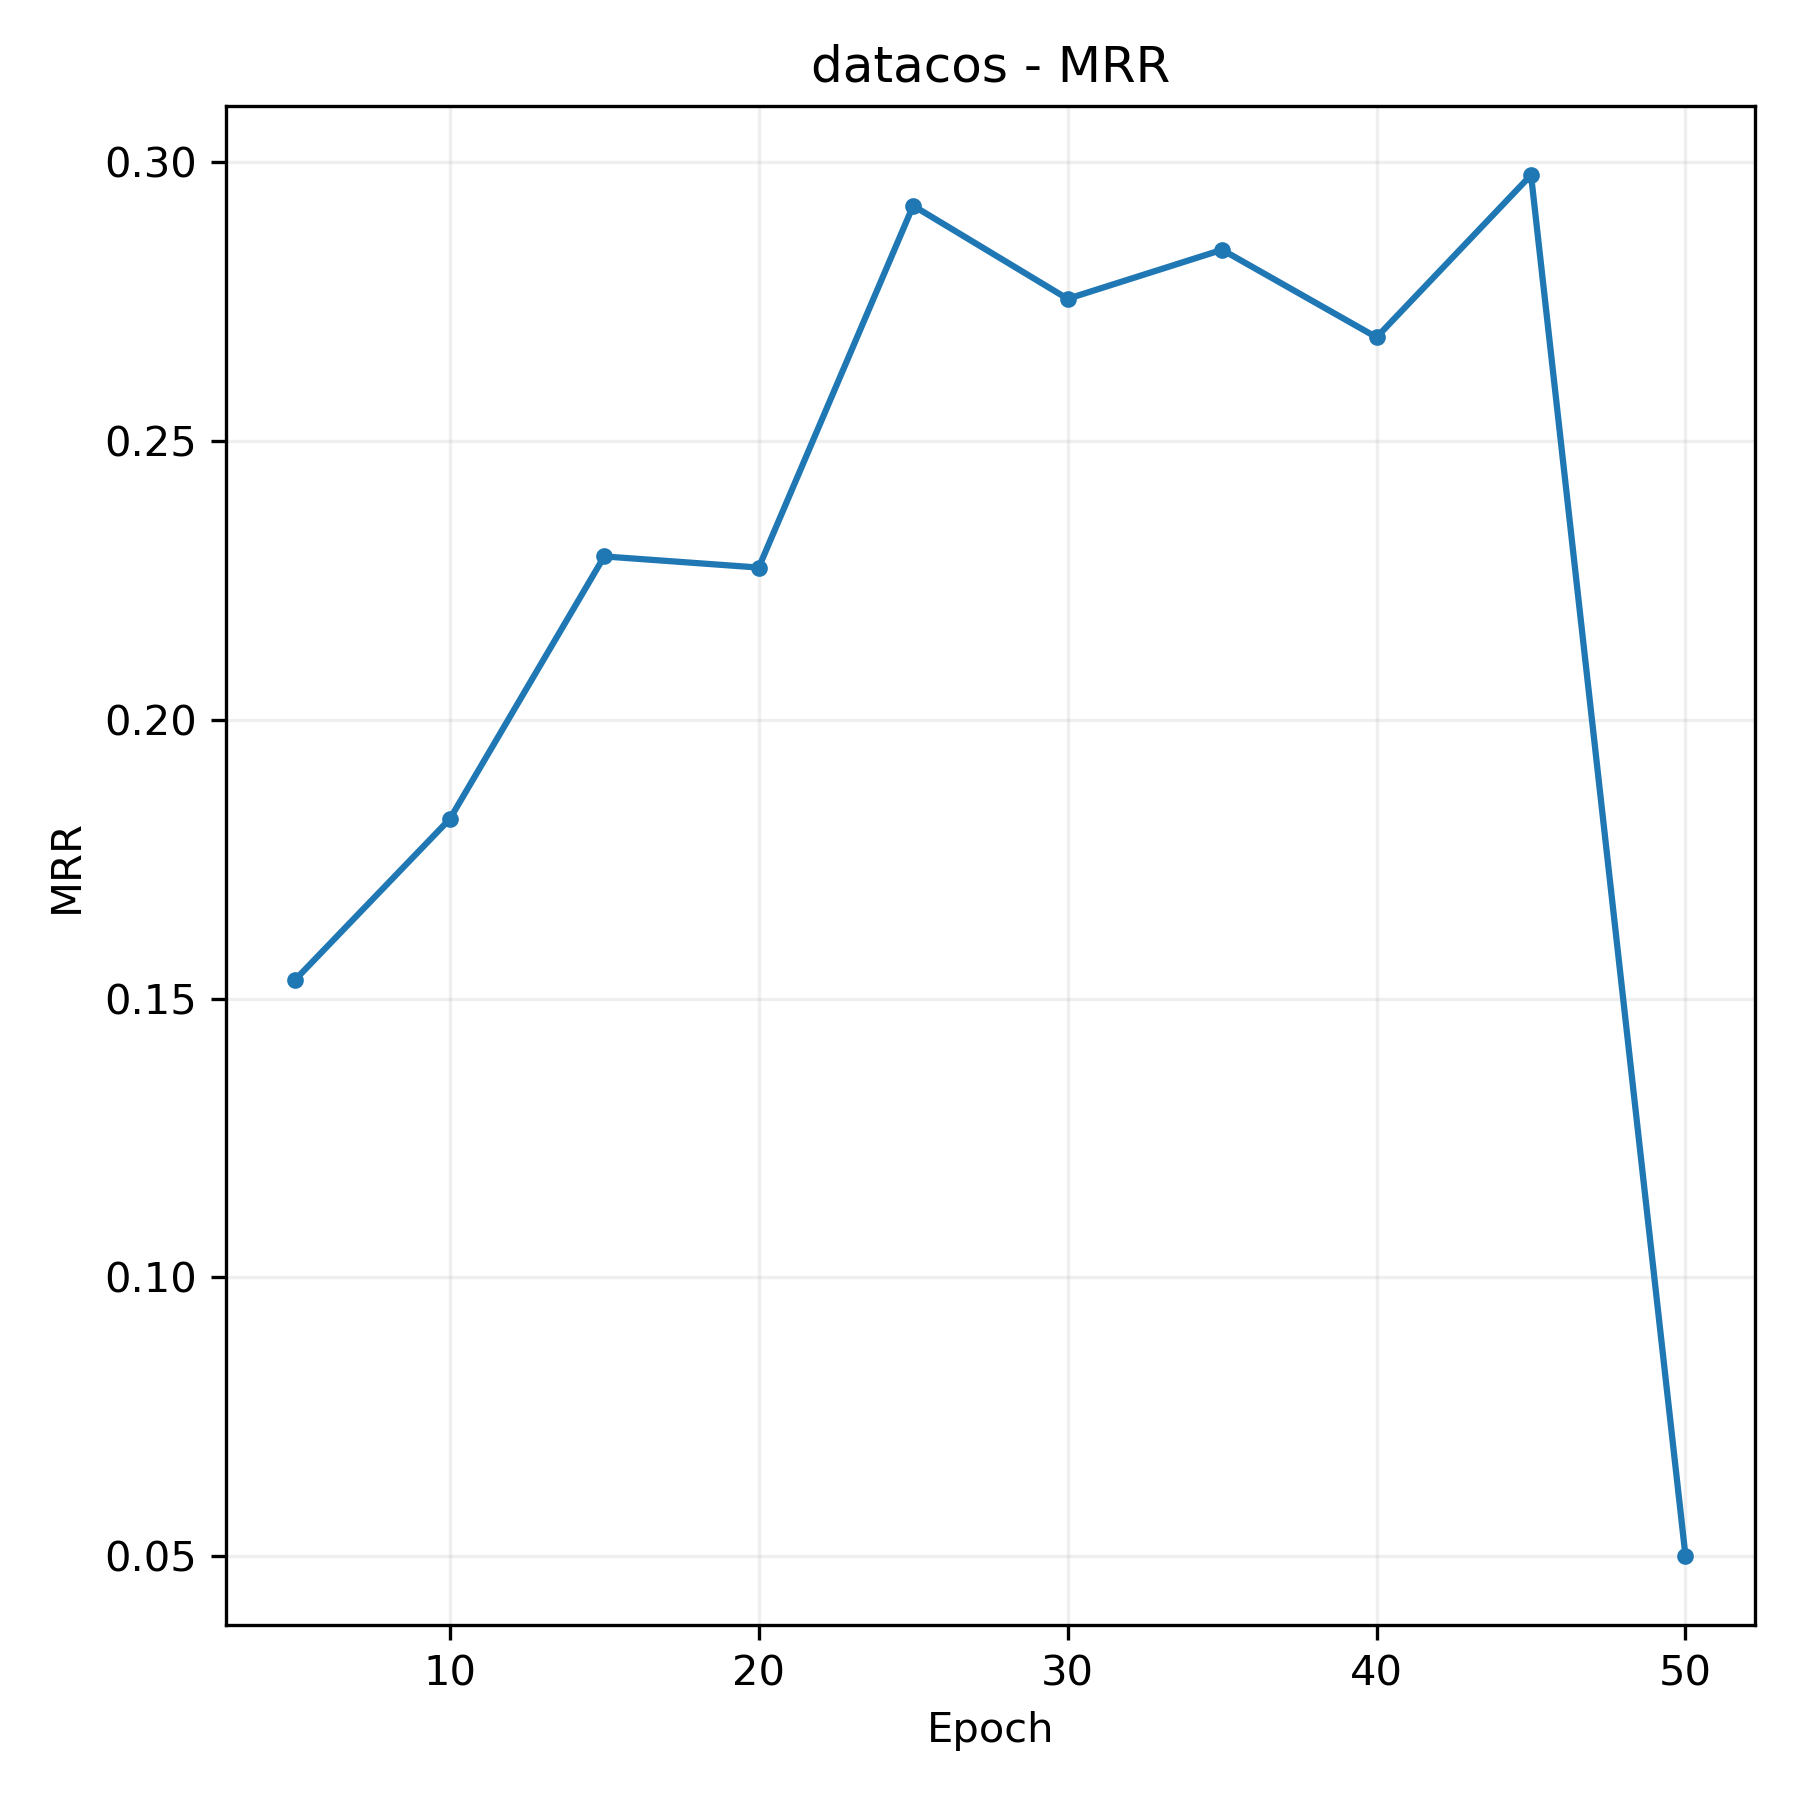
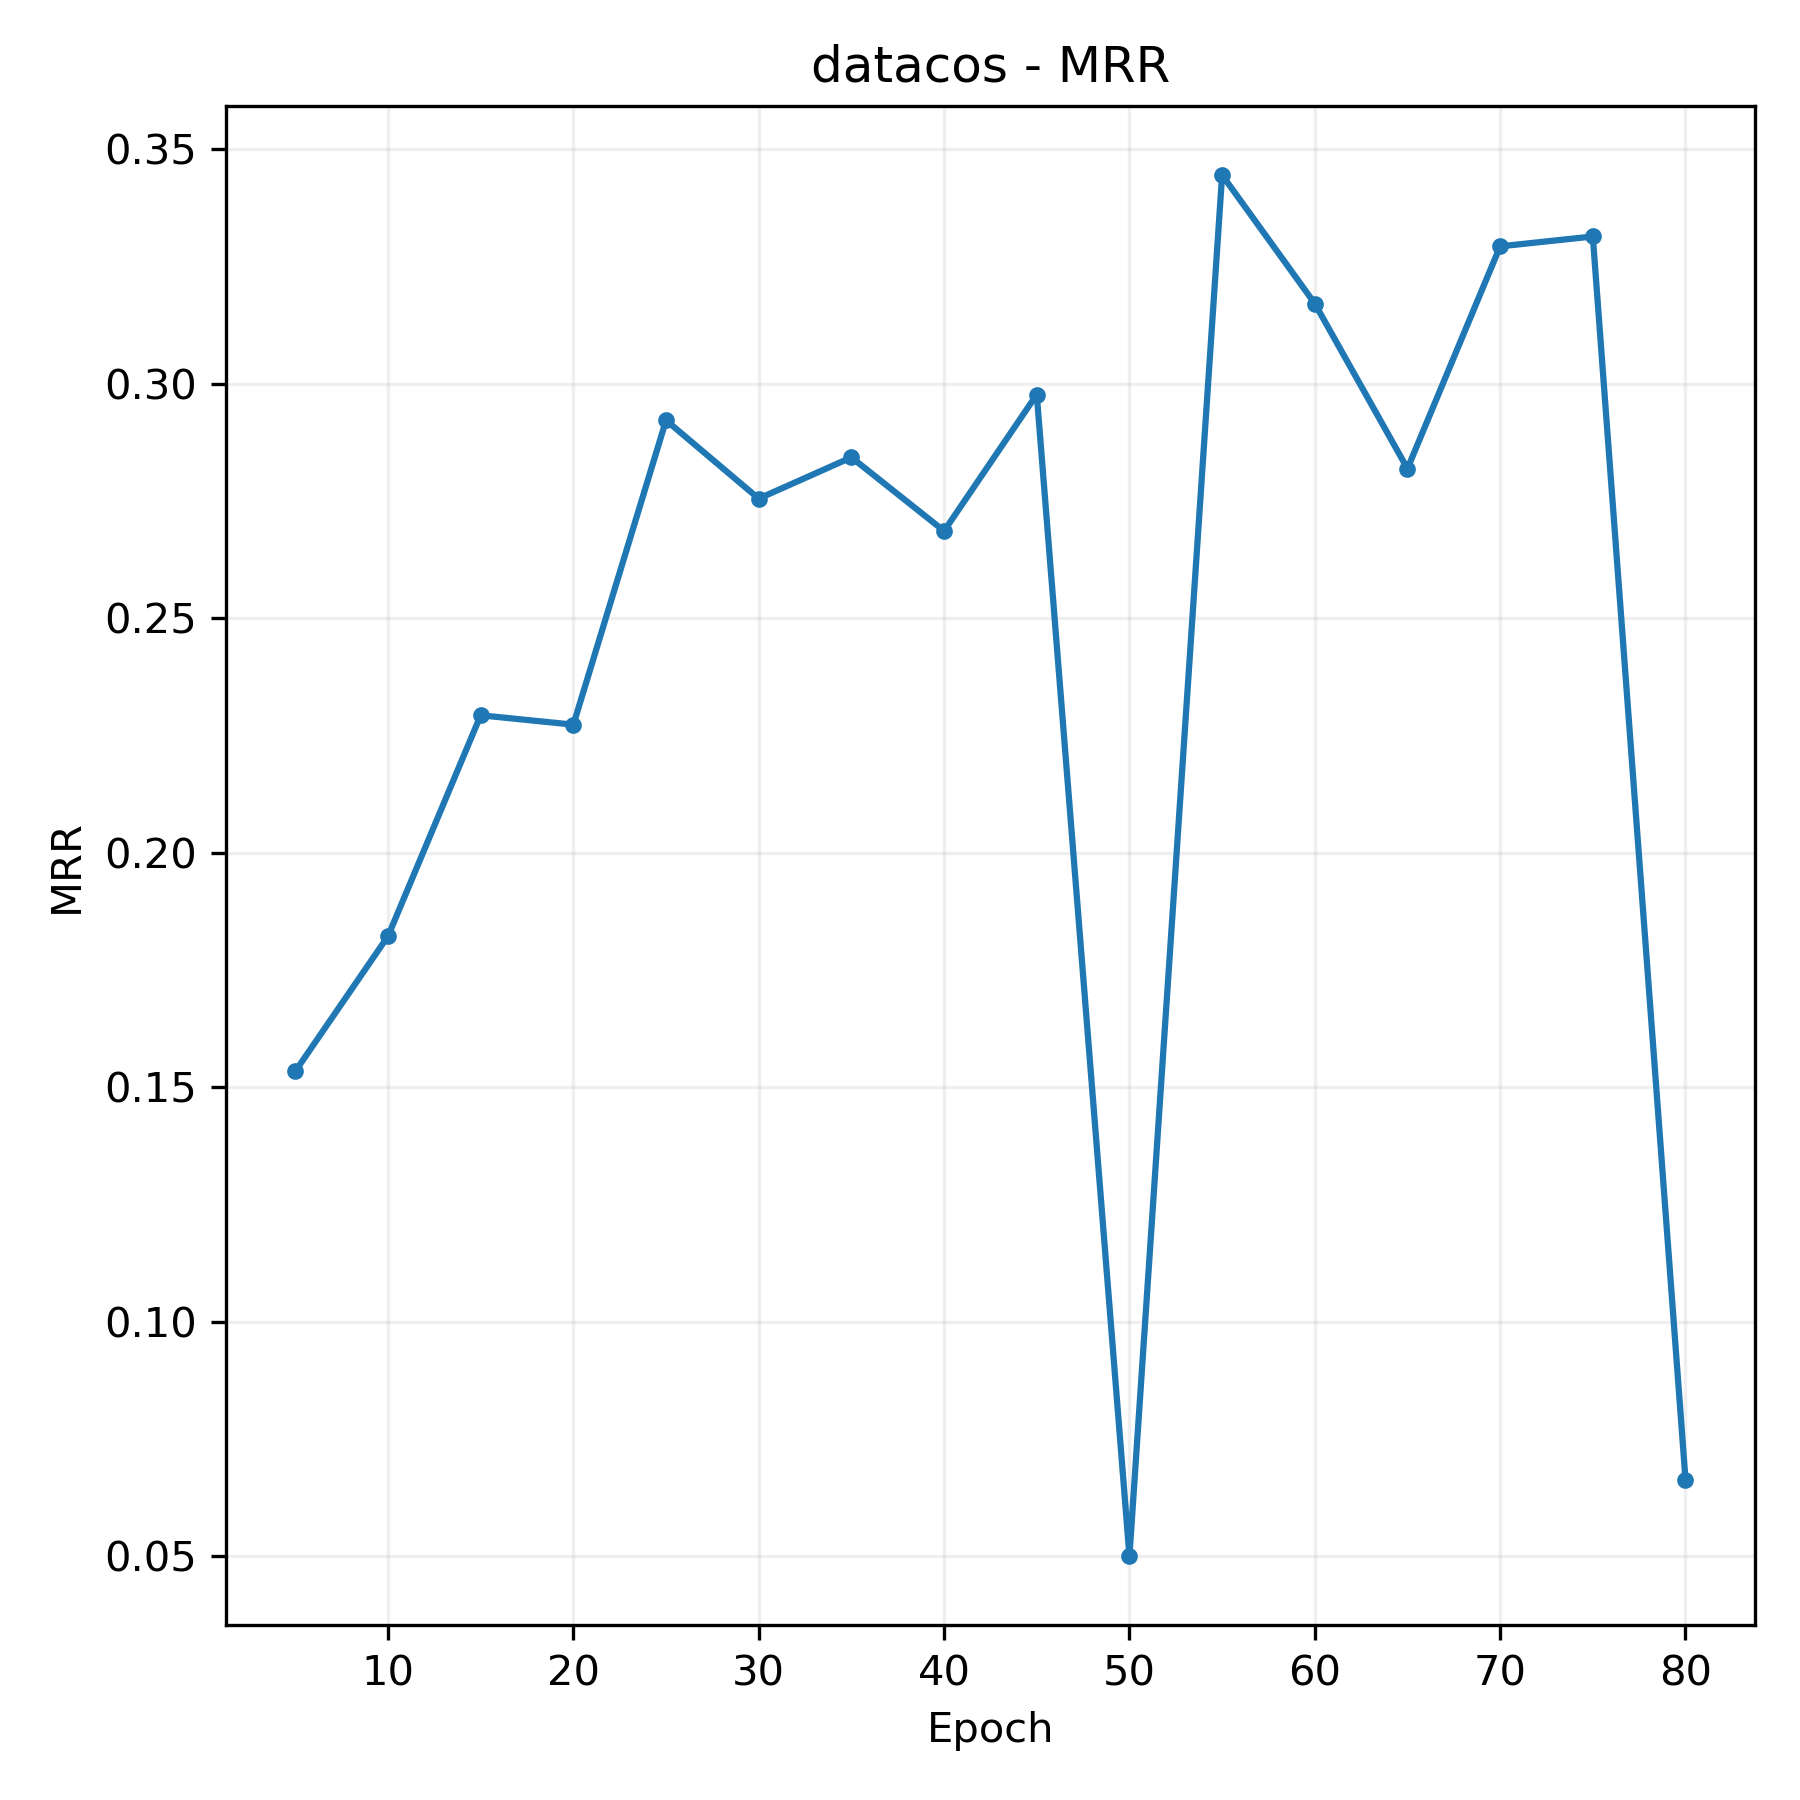
modify var

diff --git a/2-5_train_moco_attn.py b/2-5_train_moco_attn.py
@@ -13,7 +13,7 @@ from data_augmentation import cyclic_subset
 parser = argparse.ArgumentParser()
 parser.add_argument("--data_dir", type=str, default="da_tacos", help="data directory name")
 parser.add_argument("--csv_pref", type=str, default="pair")
-parser.add_argument("--exp_name", type=str, default="moco_attn_v7", help="name of training experiment")
+parser.add_argument("--exp_name", type=str, default="moco_attn_v9", help="name of training experiment")
 parser.add_argument("--csv_dir", type=str, default="da-tacos_metadata", help="directory of metadata")
 # parser.add_argument("--split", type=str, default="train")
 parser.add_argument("--cache_dir", type=str, default="hpcp_cache", help="cache directory name")
@@ -42,9 +42,9 @@ datacos_val_loader = DataLoader(datacos_val_dataset, batch_size=256, shuffle=Fal
 device = torch.device("cuda" if torch.cuda.is_available() else "cpu")
 
 # model
-tokenizer = a_vittokenizer.RawTokenizer()
+tokenizer = a_vittokenizer.RawTokenizer(d_model=64, patch_h=23, patch_w=25)
 selfattn = b_selfattention.SelfAttentionEncoder(nhead=8, d_model=64, num_layers=2, dim_feedforward=256, dropout=0.1)
-encoder = d_projector.HPCPSelfAttentionEncoder(tokenizer=tokenizer, self_attention=selfattn, nhead=8, d_model=64)
+encoder = d_projector.HPCPSelfAttentionEncoder(tokenizer=tokenizer, self_attention=selfattn, num_tokens=175, nhead=8, d_model=64)
 model = d_projector.HPCPMoCo(encoder, proj_dim=128, proj_hidden=256, momentum=0.99, temperature=0.2).to(device=device)
 
 optimizer = torch.optim.AdamW(
@@ -79,6 +79,10 @@ if checkpoint_path.is_file():
 else:
     print("No checkpoint found. Starting from epoch 1.")
 
+sample = datacos_train_dataset[0]
+for k, v in sample.items():
+    if hasattr(v, "shape"):
+        print(k, v.shape)
 
 for epoch in range(start_epoch, num_epochs + 1):
     # cyclic_train_dataset = cyclic_subset(datacos_train_dataset, epoch=epoch, ratio=0.2)

diff --git a/3-5_eval_moco_attn.py b/3-5_eval_moco_attn.py
@@ -11,7 +11,7 @@ from checkpoint import load_checkpoint
 
 parser = argparse.ArgumentParser()
 parser.add_argument("--csv_pref", type=str, default="pair")
-parser.add_argument("--exp_name", type=str, default="moco_attn_v7", help="name of training experiment")
+parser.add_argument("--exp_name", type=str, default="moco_attn_v9", help="name of training experiment")
 parser.add_argument("--cache_dir", type=str, default="cache", help="cache directory name")
 parser.add_argument("--rep", type=str, default="hpcp", help="representation of the input")
 args = parser.parse_args()
@@ -59,7 +59,7 @@ device = torch.device("cuda" if torch.cuda.is_available() else "cpu")
 # model
 tokenizer = a_vittokenizer.RawTokenizer()
 selfattn = b_selfattention.SelfAttentionEncoder(nhead=8, d_model=64, num_layers=2, dim_feedforward=256, dropout=0.1)
-encoder = d_projector.HPCPSelfAttentionEncoder(tokenizer=tokenizer, self_attention=selfattn, nhead=8, d_model=64)
+encoder = d_projector.HPCPSelfAttentionEncoder(tokenizer=tokenizer, self_attention=selfattn, num_tokens=175, nhead=8, d_model=64)
 model = d_projector.HPCPMoCo(encoder, proj_dim=128, proj_hidden=256, momentum=0.99, temperature=0.2).to(device=device)
 
 optimizer = torch.optim.AdamW(
@@ -74,7 +74,7 @@ best_loss = float("inf")
 
 # checkpoint_path = checkpoint_dir / "last.pt"
 # checkpoint_path = checkpoint_dir / "best.pt"
-checkpoint_path = checkpoint_dir / "model_epoch_050.pt"
+checkpoint_path = checkpoint_dir / "model_epoch_005.pt"
 
 
 if checkpoint_path.is_file():
@@ -88,6 +88,11 @@ if checkpoint_path.is_file():
         best_loss = loaded_loss
 else:
     print("No checkpoint found. Starting from epoch 1.")
+
+shs_sample = shs_test_dataset[0]
+for k, v in shs_sample.items():
+    if hasattr(v, "shape"):
+        print(k, v.shape)
 
 # Evaluation on shs-100K test dataset pair
 shs_test_metrics = evaluate_vit_moco_pn(

diff --git a/2-3_train_hpcp_attn.py b/2-3_train_hpcp_attn.py
@@ -14,7 +14,7 @@ from data_augmentation import cyclic_subset
 parser = argparse.ArgumentParser()
 parser.add_argument("--data_dir", type=str, default="da_tacos", help="data directory name")
 parser.add_argument("--csv_pref", type=str, default="pair")
-parser.add_argument("--exp_name", type=str, default="hpcp_attn_v6", help="name of training experiment")
+parser.add_argument("--exp_name", type=str, default="hpcp_attn_v10", help="name of training experiment")
 parser.add_argument("--csv_dir", type=str, default="da-tacos_metadata", help="directory of metadata")
 # parser.add_argument("--split", type=str, default="train")
 parser.add_argument("--cache_dir", type=str, default="hpcp_cache", help="cache directory name")
@@ -43,9 +43,9 @@ datacos_val_loader = DataLoader(datacos_val_dataset, batch_size=256, shuffle=Fal
 device = torch.device("cuda" if torch.cuda.is_available() else "cpu")
 
 # model
-tokenizer = a_vittokenizer.RawTokenizer(d_model=64, patch_h=12, patch_w=25)
+tokenizer = a_vittokenizer.RawTokenizer(d_model=64, patch_h=23, patch_w=25)
 selfattn = b_selfattention.SelfAttentionEncoder(nhead=4, d_model=64, num_layers=2, dim_feedforward=256, dropout=0.2)
-model = c_self_sim_model.HPCPSelfAttentionModel(tokenizer=tokenizer, self_attention=selfattn, nhead=4, d_model=64).to(device=device)
+model = c_self_sim_model.HPCPSelfAttentionModel(tokenizer=tokenizer, self_attention=selfattn, nhead=4, num_token=175, d_model=64).to(device=device)
 
 
 optimizer = torch.optim.AdamW(
@@ -57,7 +57,7 @@ optimizer = torch.optim.AdamW(
 )
 
 # training
-num_epochs = 1000
+num_epochs = 300
 validate_every = 1
 checkpoint_every = 5
 

diff --git a/models/a_vittokenizer.py b/models/a_vittokenizer.py
@@ -111,7 +111,7 @@ class HPCPViTTokenizer(nn.Module):
     
 
 class RawTokenizer(nn.Module):
-    def __init__(self, d_model=64, patch_h=12, patch_w=25):
+    def __init__(self, d_model=64, patch_h=23, patch_w=25):
         super().__init__()
 
         self.patch_h = patch_h
@@ -121,18 +121,18 @@ class RawTokenizer(nn.Module):
         self.proj = nn.Linear(patch_dim, d_model)
 
     def forward(self, x):
-        B, C, H, W = x.shape # x: [B, 1, 96, 4375]
+        B, C, H, W = x.shape # x: [B, 1, 23, 4375]
 
         usable_h = (H // self.patch_h) * self.patch_h # patch_h로 나눠지는 길이
         usable_w = (W // self.patch_w) * self.patch_w # patch_w로 나눠지는 길이
 
-        x = x[:, :, :usable_h, :usable_w] # x: [B, 1, 96, 4375]
+        x = x[:, :, :usable_h, :usable_w] # x: [B, 1, 23, 4375]
 
         x = x.unfold(2, self.patch_h, self.patch_h)
-        x = x.unfold(3, self.patch_w, self.patch_w) # [B, 1, 8, 12, 175, 25]
+        x = x.unfold(3, self.patch_w, self.patch_w) # [B, 1, 1, 23, 175, 25]
 
-        x = x.permute(0, 2, 3, 1, 4, 5) # [B, 8, 175, 1, 12, 25] = [B, H_patch, W_patch, C, patch_h, patch_w]
-        x = x.reshape(B, -1, C * self.patch_h * self.patch_w) # [B, 8*175, 300]
+        x = x.permute(0, 2, 3, 1, 4, 5) # [B, 1, 175, 1, 23, 25] = [B, H_patch, W_patch, C, patch_h, patch_w]
+        x = x.reshape(B, -1, C * self.patch_h * self.patch_w) # [B, 1*175, 575]
         x = self.proj(x) # [B, N, d_model]
 
         return x

diff --git a/3-3_eval_hpcp_attn.py b/3-3_eval_hpcp_attn.py
@@ -12,7 +12,7 @@ from checkpoint import load_checkpoint
 
 parser = argparse.ArgumentParser()
 parser.add_argument("--csv_pref", type=str, default="pair")
-parser.add_argument("--exp_name", type=str, default="hpcp_attn_v7", help="name of training experiment")
+parser.add_argument("--exp_name", type=str, default="hpcp_attn_v10", help="name of training experiment")
 parser.add_argument("--cache_dir", type=str, default="cache", help="cache directory name")
 parser.add_argument("--rep", type=str, default="hpcp", help="representation of the input")
 args = parser.parse_args()
@@ -58,9 +58,9 @@ datacos_loader = DataLoader(datacos_dataset, batch_size=128, shuffle=False, num_
 device = torch.device("cuda" if torch.cuda.is_available() else "cpu")
 
 # model
-tokenizer = a_vittokenizer.RawTokenizer(d_model=64, patch_h=12, patch_w=25)
+tokenizer = a_vittokenizer.RawTokenizer(d_model=64, patch_h=23, patch_w=25)
 selfattn = b_selfattention.SelfAttentionEncoder(nhead=4, d_model=64, num_layers=2, dim_feedforward=256, dropout=0.1)
-model = c_self_sim_model.HPCPSelfAttentionModel(tokenizer=tokenizer, self_attention=selfattn, nhead=4, d_model=64).to(device=device)
+model = c_self_sim_model.HPCPSelfAttentionModel(tokenizer=tokenizer, self_attention=selfattn, nhead=4, num_token=175, d_model=64).to(device=device)
 
 optimizer = torch.optim.AdamW(
     model.parameters(),

diff --git a/models/c_self_sim_model.py b/models/c_self_sim_model.py
@@ -282,11 +282,13 @@ class LGSelfAttentionModel(nn.Module): # used for HPCP
     
 
 class HPCPSelfAttentionModel(nn.Module): # used for HPCP
-    def __init__(self, tokenizer, self_attention, nhead, d_model=64):
+    def __init__(self, tokenizer, self_attention, nhead, num_token=175, d_model=64):
         super().__init__()
         self.dim = d_model
         self.head = nhead
+        self.num_token = num_token
         self.tokenizer = tokenizer
+        self.pos_embed = nn.Parameter(torch.zeros(1, self.num_token, self.dim))
         self.self_attention = self_attention
 
         self.pair_projection = PairProjection(d_model=self.dim, pair_dim=self.dim)
@@ -296,6 +298,7 @@ class HPCPSelfAttentionModel(nn.Module): # used for HPCP
     def encode_tokens(self, x):
         B = x.shape[0]
         x = self.tokenizer(x)
+        x = x + self.pos_embed[:, :x.shape[1], :]
         x = self.self_attention(x) # [B, N, D]
 
         # x = x.reshape(B, self.head, x.shape[1], self.dim) # [B*H, N, D]
@@ -322,6 +325,8 @@ class HPCPSelfAttentionModel(nn.Module): # used for HPCP
         return x
 
     def forward(self, src, tgt):
+        
+
         src_token = self.encode_tokens(src)
         tgt_token = self.encode_tokens(tgt)
 

diff --git a/dataset/pndatacosdataset.py b/dataset/pndatacosdataset.py
@@ -175,6 +175,7 @@ class PNDATACOSDataset(Dataset):
         # augmentation during training
         if self.split == "train":
             fs_input = da.shift_pitch_hpcp(fs_input)
+            fs_input = da.mirror_pitch_axis(fs_input)
             fs_input = da.shift_mask_hpcp_time(fs_input)
             fs_input = da.partial_gap_hpcp(fs_input)
             # fs_input = da.splice_same_song_hpcp(fs_input, p=0.2, seg_len=500)
@@ -184,7 +185,10 @@ class PNDATACOSDataset(Dataset):
 
             # fn_input = da.augment_hpcp(fn_input)
             # fn_input = da.splice_same_song_hpcp(fn_input, p=0.2, seg_len=500)
-
+        else:
+            fs_input = da.mirror_pitch_axis(fs_input)
+        fp_input = da.mirror_pitch_axis(fp_input)
+        fn_input = da.mirror_pitch_axis(fn_input)
         tfs_input = torch.as_tensor(fs_input, dtype=torch.float32).unsqueeze(0)
         tfp_input = torch.as_tensor(fp_input, dtype=torch.float32).unsqueeze(0)
         tfn_input = torch.as_tensor(fn_input, dtype=torch.float32).unsqueeze(0)

diff --git a/models/d_projector.py b/models/d_projector.py
@@ -128,17 +128,19 @@ class PredictionMLP(nn.Module):
 
 
 class HPCPSelfAttentionEncoder(nn.Module):
-    def __init__(self, tokenizer, self_attention, nhead, d_model=64):
+    def __init__(self, tokenizer, self_attention, nhead, num_tokens=175, d_model=64):
         super().__init__()
 
         self.dim = d_model
         self.head = nhead
         self.tokenizer = tokenizer
+        self.pos = nn.Parameter(torch.zeros(1, num_tokens, self.dim))
         self.self_attention = self_attention
         self.pair_projection = PairProjection(d_model=d_model, pair_dim=d_model)
 
     def encode_tokens(self, x):  # [B, 1, 96, 4375]
         x = self.tokenizer(x)  # [B, N, D]
+        x = x + self.pos[:, :x.shape[1], :]
         x = self.self_attention(x)  # [B, N, D]
 
         return x

diff --git a/6_save_graph.py b/6_save_graph.py
@@ -6,7 +6,7 @@ from graph import parse_train_log, plot_metric_trend, parse_eval_log, plot_eval_
 
 parser = argparse.ArgumentParser()
 parser.add_argument("--check_dir", type=str, default="checkpoints", help="checkpoint directory name")
-parser.add_argument("--exp_name", type=str, default="moco_attn_v7", help="name of training experiment") # moco_attn_v4 hpcp_attn_v3
+parser.add_argument("--exp_name", type=str, default="moco_attn_v9", help="name of training experiment") # moco_attn_v4 hpcp_attn_v3
 parser.add_argument("--log_type", type=str, default="eval", help="one between train and eval")
 parser.add_argument("--save_dir", type=str, default="save", help="name of saving directory name")
 args = parser.parse_args()

diff --git a/dataset/cs_cover80dataset.py b/dataset/cs_cover80dataset.py
@@ -5,6 +5,7 @@ import torch
 from torch.utils.data import Dataset, DataLoader
 import torch.nn.functional as F
 import audio_conv as ac
+import data_augmentation as da
 
 
 class Cover80Dataset(Dataset):
@@ -182,6 +183,10 @@ class Cover80Dataset(Dataset):
         fs_input = self.test_crop_1(src_feature)
         fp_input = self.test_crop_1(pos_feature)
         fn_input = self.test_crop_1(neg_feature)
+
+        fs_input = da.mirror_pitch_axis(fs_input)
+        fp_input = da.mirror_pitch_axis(fp_input)
+        fn_input = da.mirror_pitch_axis(fn_input)
 
         tfs_input = torch.as_tensor(fs_input, dtype=torch.float32).unsqueeze(0)
         tfp_input = torch.as_tensor(fp_input, dtype=torch.float32).unsqueeze(0)

diff --git a/data_augmentation.py b/data_augmentation.py
@@ -1,5 +1,28 @@
 import torch
 
+def mirror_pitch_axis(x):
+    """
+    Mirror the y-axis and stack it after the original.
+
+    Example:
+        C D E F G A B
+        ->
+        C D E F G A B C B A G F E D C
+
+    Args:
+        x: input tensor
+        y_dim: dimension corresponding to the pitch/y-axis
+
+    Returns:
+        Tensor with the y-axis extended in both directions.
+    """
+    assert x.ndim == 2
+    assert x.shape[0] == 12
+    # Reverse entire pitch axis: Si La ... Re Do
+    x_reverse = torch.flip(x[:-1, :], dims=[0])
+
+    return torch.cat([x, x_reverse], dim=0)
+
 
 def shift_pitch_hpcp(x, p=1.0, max_pitch_shift=6):
     if torch.rand(1).item() < p:

diff --git a/train_align.py b/train_align.py
@@ -96,8 +96,8 @@ def train_vit_align_one_epoch(model, dataloader, optimizer, device, glo_margin=0
         ap_loss = smooth_ap_loss(embeddings, work_ids, temperature=0.1)
         global_loss = (lambda_tri * tri_loss + lambda_ap * ap_loss)
 
-        pos_local_score, _, _ = best_diagonal_window(pos_sim, window=40)
-        neg_local_score, _, _ = best_diagonal_window(neg_sim, window=40)
+        pos_local_score, _, _ = best_diagonal_window(pos_sim, window=8)
+        neg_local_score, _, _ = best_diagonal_window(neg_sim, window=8)
         local_loss = F.relu(neg_local_score - pos_local_score + loc_margin).mean()
 
         loss = (global_loss + lambda_local * local_loss)
